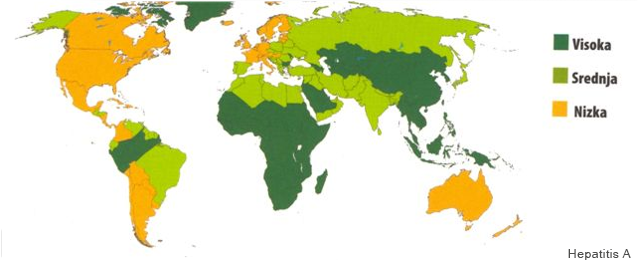
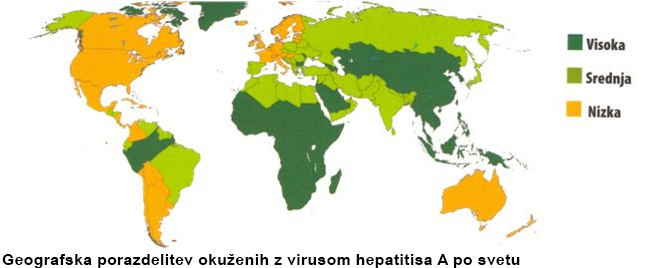
Final text and map fixes. Added legal info.

diff --git a/HEPY_django/HEPY_new/static/HEPY_new/style/style.css b/HEPY_django/HEPY_new/static/HEPY_new/style/style.css
@@ -71,10 +71,10 @@ a:focus {
 #wrap {
 	min-height: 100%;
 	padding-top: 64px;
-	margin-bottom: -100px;
+	margin-bottom: -115px;
 	height: auto;
 	overflow-y: hidden;
-	padding-bottom: 100px;
+	padding-bottom: 115px;
 }
 
 #main-scroll {
@@ -284,10 +284,22 @@ h5, h4 {
  */
  
 footer {
-	min-height: 100px;
+	min-height: 115px;
 	background: rgba(0, 0, 0, 0.7);
 	width: 100%;
 	display: block;
+	max-height: 120px;
+}
+
+.legal-link
+{
+	text-align: center;
+	color: white;
+	/*text-decoration-line: underline;*/
+	width: 100%;
+	letter-spacing: 0;
+	font-family: "Helvetica Neue", Helvetica, Arial, sans-serif;
+	font-size: small;
 }
 
 .img-container {
@@ -448,6 +460,11 @@ footer img {
 
 #page-survey .question-page {
 	min-height: 435px;
+}
+
+.question-page > img {
+	margin-bottom: 10px;
+	margin-top: 10px;
 }
 
 .button-next a {
@@ -668,7 +685,7 @@ a.list-group-item {
 	
 	.hospitalDescription {
 		color: #7F7F7F; 
-		line-height: 110%; 
+		line-height: 110%;
 		text-align: justify; 
 		font-size: 18px;
 		margin-bottom: 0px;
@@ -793,7 +810,13 @@ a.list-group-item {
 
 .checkbox-fix
 {
-	padding-left: 5px;
+	display: inline;
+	padding-right: 8px;
+}
+
+input[type="checkbox"].checkbox-input-fix
+{
+	vertical-align: 0; !important;
 }
 /*
 .just-padding {

diff --git a/HEPY_django/HEPY_new/static/HEPY_new/app/pages/medical-examination.html b/HEPY_django/HEPY_new/static/HEPY_new/app/pages/medical-examination.html
@@ -69,11 +69,9 @@
 				</accordion-group>
 			</accordion>
 			-->
-			<div class="col-md-offset-2 col-md-8"><img src="img/kam-po-pomoc.jpg"></div>
-			<div class="col-md-offset-0 col-md-12">
-				<h5>TESTIRANJE KRVI NA HIV, VIRUSA HEPATITISA B IN C</h5>
+			<div>
+				<h4>Kam na testiranje na okužbo z virusnima hepatitisoma B in C?</h4>
 				<p>Za testiranje lahko zaprosite tudi svojega izbranega zdravnika.</p>
-
 				<accordion>
 					<accordion-group
 						heading="Ljubljana">
@@ -157,6 +155,11 @@
 							</ul>
 					</accordion-group>
 				</accordion>
+			</div>
+			<div>
+				<h4>Kam na pregled k specialistu?</h4>
+				<p>Osrednja bolnišnica za obravnavo bolnikov z virusnim hepatitisom v Sloveniji je Klinika za infekcijske bolezni in vročinska stanja UKC Ljubljana.</p>
+				<div class="col-md-offset-2 col-md-8"><img src="img/kam-po-pomoc.jpg"></div>
 			</div>
 		</div>
 	</div>

diff --git a/HEPY_django/HEPY_new/static/HEPY_new/app/pages/survey.html b/HEPY_django/HEPY_new/static/HEPY_new/app/pages/survey.html
@@ -15,7 +15,7 @@
 
 						<ul id="ulSurvey" ng-switch on="q.type">
 							<li ng-repeat="ans in q.answers" ng-switch-when="checkbox">
-								<label><input name="ans{{q.pk}}_{{ans.pk}}" type="checkbox" class="checkbox-fix" ng-change="changeCheckbox()" ng-model="ans.selected"> {{ ans.text }}</label>
+								<label><input name="ans{{q.pk}}_{{ans.pk}}" type="checkbox" class="checkbox-input-fix" ng-change="changeCheckbox()" ng-model="ans.selected"><div class="checkbox-fix" > {{ ans.text }}</div></label>
 								<!--label ng-show="ans.selected == true" ng-repeat="w in ans.weights"><p ng-if="w.type == 'long_comment'">{{ w.text }}</p></label-->
 							</li>
 							<li ng-repeat="ans in q.answers" ng-switch-when="radio">

diff --git a/HEPY_django/HEPY_new/static/HEPY_new/app/pages/footer.html b/HEPY_django/HEPY_new/static/HEPY_new/app/pages/footer.html
@@ -27,4 +27,5 @@
 			
 		</div>
 	</div>
+	<a href="http://www.loally.com/tos/1ugkj5m" class="col-sm-12 legal-link">POGOJI UPORABE</a>
 </div>

diff --git a/HEPY_django/HEPY_new/static/HEPY_new/app/pages/prevention/general_prevention.md b/HEPY_django/HEPY_new/static/HEPY_new/app/pages/prevention/general_prevention.md
@@ -1,14 +1,13 @@
-### Splošni ukrepi
+### SPLOŠNI UKREPI
 
 ### Varno prehranjevanje <div id="food-safety"></div>
 
 Na potovanju v endemične kraje (glej zemljevid) popotnik <lightbox-img img="'img/hepA.png'" text="'Geografska porazdelitev okuženih z virusom hepatitisa A po svetu'">virus hepatitisa A (HAV)</lightbox-img> in <lightbox-img img="'img/hepE.png'" text="'Geografska porazdelitev okuženih z virusom hepatitisa E po svetu'">virus hepatitisa E (HEV)</lightbox-img> zaužije s hrano, vodo ali preko umazanih rok. Povzročitelj se določen čas izloča z blatom okuženega. Z bolnika ali tihega nosilca virusa se povzročitelj vrača v okolje, v higiensko neurejenih razmerah pa se okužba lahko širi na zdrave osebe.
 
-##### Kako se zavarujemo pred okužbo?
+#### Kako se zavarujemo pred okužbo?
 Pred okužbo se lahko zavarujemo z doslednim upoštevanjem higienskih ukrepov, predvsem smo pozorni v državah, kjer ni razvite kanalizacije oziroma sanitacije okolja. Najpomembnejše je pitje higiensko neoporečne vode, priporočamo uporabo ustekleničene vode, ne le prekuhavanje vode. Roke si pred pripravo jedi in pred jedjo ter po uporabi stranišča vedno temeljito umijemo z milom in čisto vodo. Kjer ni na voljo čiste vode, svetujemo uporabo mokrih higienskih ali alkoholnih robčkov.  Pri umivanju zob uporabljamo samo pitno vodo.  Svetujemo uživanje dobro pečene ali dobro kuhane in pravkar pripravljene hrane. Zelenjavo in sadje je potrebno dobro oprati v pitni vodi. 
 
 **Cepljenje** je najbolj učinkovit način preprečitve okužbe s HAV. Vključuje dva odmerka cepiva in je doživljenjsko učinkovito. Možno je tudi cepljenje s kombiniranim cepivom proti hepatitisoma  A in B s tremi odmerki. Proti hepatitisu E cepiva ni na voljo.
-
 
 ### Izogibanje tveganemu vedenju <div id="risky-behaviour"></div>
 
@@ -22,12 +21,10 @@ Zato je večji poudarek na preprečevanju okužbe z dobrim nadzorom nad darovano
 Pred okužbo se lahko zavarujemo z manj tveganim vedenjem:
 * Intravenski uporabniki drog z uporabo lastnega pribora za injiciranje,
 * njuhalci drog z uporabo lastnega pribora,
-* z izogibanjem neprofesionalno opravljenemu tetoviranju, prebadanju kože in sluznic ("piercing") in akupunkturi,
+* z izogibanjem neprofesionalno opravljenemu tetoviranju, prebadanju kože in sluznic (»piercing«) in akupunkturi,
 * osebe, ki menjavajo spolne partnerje, s pravilno uporabo kondoma iz lateksa dosledno pri vsakem spolnem odnosu,
 * novorojenci mater, okuženih s HCV, s testiranjem na prisotnost okužbe s HCV takoj po porodu in nadaljnjim zdravniškim nadzorom,
 * z izogibanjem souporabi osebnega pribora (zobna ščetka, brivnik, manikirni pribor) in vzdrževanjem osnovnih higienskih navad.
-
-
 
 ### Varni spolni odnosi <div id="safe-sex"></div>
 
@@ -81,37 +78,29 @@ NE OKLEVAJTE! ČE STE IMELI TVEGANO SPOLNO VEDENJE IN/ALI IMATE BOLEZENSKE SIMPT
 
 Več informacij o spolno prenosljivih okužbah najdete na spletni strani: https://aspo.mf.uni-lj.si/
 
+### Varna tetovaža /piercing <div id="tattoo"></div>
 
+##### Zakaj se lahko okužimo pri tetoviranju ali piercingu?
 
-### Varna tetovaža / "piercing" <div id="tattoo"></div>
+Virusa hepatitisa B in C se lahko prenašata, če se pri kakršnihkoli posegih na ali v telo ne upošteva ustreznih higienskih metod in metod preprečevanja širjenja okužbe. Pri izvajanju tetovaže ali piercingu pride do stika kože z iglo oziroma črnilom. Zelo pomembno je, da se uporabi igla za enkratno uporabo, da izvajalec tetovaže ali piercinga med posegom uporablja rokavice in da so ostali pripomočki za izvedbo ustrezno sterilizirani. 
 
-##### Zakaj se lahko okužimo pri tetoviranju ali "piercingu"?
+##### Kakšno je tveganje, da se okužimo z virusom hepatitisa B/C pri tetovaži/piercingu?
 
-Virusa hepatitisa B in C se lahko prenašata, če se pri kakršnihkoli posegih na ali v telo ne upošteva ustreznih higienskih metod in metod preprečevanja širjenja okužbe. Pri izvajanju tetovaže ali "piercingu" pride do stika kože z iglo oziroma črnilom. Zelo pomembno je, da se uporabi igla za enkratno uporabo, da izvajalec tetovaže ali "piercinga" med posegom uporablja rokavice in da so ostali pripomočki za izvedbo ustrezno sterilizirani.
+Raziskave so pokazale, da imajo okuženi z virusom hepatitisa C štirikrat pogosteje prisotno tetovažo v primerjavi z neokuženimi osebami. Tveganje za okužbo se je izrazito povečalo, če je bila tetovaža opravljena neprofesionalno, kar pomeni, da ni bila opravljena v posebnih lokalih za izvajanje tetovaž in piercingov, kjer upoštevajo vse previdnostne ukrepe za preprečevanje širjenja okužb s krvjo (uporaba materiala za enkratno rabo, higienske zahteve in zahteve sterilizacije). 
 
-##### Kakšno je tveganje, da se okužimo z virusom hepatitisa B/C pri tetovaži / "piercingu"?
+##### Kako se lahko zaščitimo pred okužbo z virusom hepatitisa B/C pri tetovaži/piercingu?
 
-Raziskave so pokazale, da imajo okuženi z virusom hepatitisa C štirikrat pogosteje prisotno tetovažo v primerjavi z neokuženimi osebami. Tveganje za okužbo se je izrazito povečalo, če je bila tetovaža opravljena neprofesionalno, kar pomeni, da ni bila opravljena v posebnih lokalih za izvajanje tetovaž in "piercingov", kjer upoštevajo vse previdnostne ukrepe za preprečevanje širjenja okužb s krvjo (uporaba materiala za enkratno rabo, higienske zahteve in zahteve sterilizacije).
-
-##### Kako se lahko zaščitimo pred okužbo z virusom hepatitisa B/C pri tetovaži / "piercingu"?
-
-1. Preverite, če ima lokal, kjer boste opravili tetovažo ali "piercing", ustrezno dovoljenje za izvedbo teh postopkov (uporaba materialov za enkratno rabo, ustrezen higienski nadzor in ukrepe za preprečevanje širjenja okužb preko krvi).
-2. Vprašajte izvajalce tetovaže/"piercinga, na kakšen način sterilizirajo pripomočke in kako pogosto to delajo. Za sterilizacijo pripomočkov se uporablja posebna aparatura (avtoklav). Ti postopki se morajo izvajati rutinsko.
-3. Izvajalec tetovaže/"piercinga" mora med posegom uporabljati rokavice iz lateksa za enkratno uporabo. Preden si natakne rokavice iz lateksa, si mora oprati roke, enako tudi potem, ko rokavice sname.
-4. Vsi pripomočki, ki med tetovažo/"piercingom" pridejo v stik s krvjo in jih ni mogoče sterilizirati (rokavcie, črnilnik, vatiranci, papirnati robčki, stekleničke z milom, in podobno) je potrebno takoj po opravljenem delu odvreči v posebno posodo z oznako, da gre za material s tveganjem za okužbo.
+1. Preverite, če ima lokal, kjer boste opravili tetovažo ali piercing, ustrezno dovoljenje za izvedbo teh postopkov (uporaba materialov za enkratno rabo, ustrezen higienski nadzor in ukrepe za preprečevanje širjenja okužb preko krvi). 
+2. Vprašajte izvajalce tetovaže/piercinga, na kakšen način sterilizirajo pripomočke in kako pogosto to delajo. Za sterilizacijo pripomočkov se uporablja posebna aparatura (avtoklav). Ti postopki se morajo izvajati rutinsko. 
+3. Izvajalec tetovaže/piercinga mora med posegom uporabljati rokavice iz lateksa za enkratno uporabo. Preden si natakne rokavice iz lateksa, si mora oprati roke, enako tudi potem, ko rokavice sname.
+4. Vsi pripomočki, ki med tetovažo/piercingom pridejo v stik s krvjo in jih ni mogoče sterilizirati (rokavice, črnilnik, vatiranci, papirnati robčki, stekleničke z milom in podobno) je potrebno takoj po opravljenem delu odvreči v posebno posodo z oznako, da gre za material s tveganjem za okužbo.
 5. Črnilo ali tekočine na vodni osnovi je potrebno takoj po opravljenem delu zavreči in ne dati nazaj v stekleničko, iz katere izvirajo.
-6. Delovne površine, ki jih uporablja izvajalec tetovaže/"piercinga" in na katere odlaga pripomočke, je potrebno redno čistiti z ustreznim dezinfekcijskim sredstvom.
+6. Delovne površine, ki jih uporablja izvajalec tetovaže/piercinga in na katere odlaga pripomočke, je potrebno redno čistiti z ustreznim dezinfekcijskim sredstvom.
 
-
-
-##### Če že imam tetovažo ali "piercing", kakšno je tveganje, da sem okužen/a z virusom hepatitisa B/C?
-
+##### Če že imam tetovažo ali piercing, kakšno je tveganje, da sem okužen/a z virusom hepatitisa B/C?
 
 Če ste opravili tetovažo v lokalu z ustreznimi dovoljenji in nadzorom, ki upoštevajo zgoraj naštete previdnostne ukrepe, ni nobenih dokazov, da bi imeli kakršnokoli tveganje za okužbo z virusoma hepatitisa B ali C. 
-Če pa ste tetovažo ali "piercing" opravil/a drugje, kjer ni takega nadzora in upoštevanja previdnostnih ukrepov, obstaja tveganje za okužbo. ZATO TAKOJ OPRAVITE TESTIRANJE NA OKUŽBO Z VIRUSOM HEPATITISA C. Če niste cepljeni proti hepatitisu B, pa OPRAVITE TUDI TESTIRANJE NA OKUŽBO Z VIRUSOM HEPATITISA B.
-
-
-
+Če pa ste tetovažo ali piercing opravil/a drugje, kjer ni takega nadzora in upoštevanja previdnostnih ukrepov, obstaja tveganje za okužbo. ZATO TAKOJ OPRAVITE TESTIRANJE NA OKUŽBO Z VIRUSOM HEPATITISA C. Če niste cepljeni proti hepatitisu B, pa OPRAVITE TUDI TESTIRANJE NA OKUŽBO Z VIRUSOM HEPATITISA B.
 
 ### Ukrepanje ob incidentu <div id="incident"></div>
 

diff --git a/HEPY_django/HEPY_new/static/HEPY_new/app/pages/hep-info/testing.md b/HEPY_django/HEPY_new/static/HEPY_new/app/pages/hep-info/testing.md
@@ -1,16 +1,15 @@
-### Kdaj naj se odločim za pregled?
-#### Če imaš bolezenske simptome in znake ki bi nakazovali na akutni virusni hepatitis:
+### Kdaj se odločiti za pregled?
+#### Če imate bolezenske simptome in znake ki bi nakazovali na akutni virusni hepatitis:
 
-TAKOJ obišči svojega izbranega zdravnika, ki bo ocenil stanje in te napotil k specialistu infektologu. Za obisk specialista infektologa v tem primeru potrebuješ napotnico izbranega osebnega zdravnika pod »nujno«. Ker gre za akutno stanje, ki zahteva takojšnji pregled pri specialistu, vnaprejšnje naročanje ni potrebno.  
+TAKOJ obiščite svojega izbranega zdravnika, ki bo ocenil stanje in vas napotil k specialistu infektologu. Za obisk specialista infektologa v tem primeru potrebujete napotnico izbranega osebnega zdravnika pod »nujno«. Ker gre za akutno stanje, ki zahteva takojšnji pregled pri specialistu, vnaprejšnje naročanje ni potrebno.  
 
-#### Če obstaja sum, da si kronično okužen z virusoma hepatitisa B ali C:
+#### Če obstaja sum, da ste okuženi z virusoma hepatitisa B ali C:
 
-Če nimaš zdravstvenih težav in si imel/imaš kakršenkoli dejavnik tveganja za okužbo z virusoma hepatitisa B ali C in/ali imaš kakršnekoli bolezenske simptome in znake, ki bi nakazovali na kronični virusni hepatitis, obišči svojega izbranega zdravnika. Ta bo opravil ustrezne preiskave krvi in te v primeru pozitivnega izvida napotil k specialistu infektologu. Za obisk specialista infektologa potrebuješ napotnico izbranega osebnega zdravnika. Ko pridobiš napotnico, se lahko naročiš po pošti, e-pošti, telefonu ali pa osebno. Sistemi naročanja se med zdravstvenimi ustanovami nekoliko razlikujejo, zato je pred obiskom izbrane zdravstvene ustanove dobro preveriti, kakšen je postopek obravnave pri njih.
-
+Če nimate zdravstvenih težav in ste imeli oziroma imate kakršenkoli dejavnik tveganja za okužbo z virusoma hepatitisa B ali C in/ali imate kakršnekoli bolezenske simptome in znake, ki bi nakazovali na kronični virusni hepatitis, obiščite svojega izbranega zdravnika. Ta bo opravil ustrezne preiskave krvi in vas v primeru pozitivnega izvida napotil k specialistu infektologu. Za obisk specialista infektologa potrebujete napotnico izbranega osebnega zdravnika. Ko pridobite napotnico, se lahko naročite po pošti, e-pošti, telefonu ali pa osebno. Sistemi naročanja se med zdravstvenimi ustanovami nekoliko razlikujejo, zato je pred obiskom izbrane zdravstvene ustanove dobro preveriti, kakšen je postopek obravnave pri njih.
 
 Obstajajo tudi zdravstvene ustanove, ki nudijo samo testiranje na okužbo z virusoma hepatitisa B in C. Ponudba zdravstvenih storitev se med ustanovami nekoliko razlikuje, prav tako dostopnost do storitev (anonimno brezplačno, samoplačniško).
 
-#### Kaj prinesem s seboj na pregled?
+#### Kaj prinesti s seboj na pregled?
 
 Na pregled je potrebno prinesti kartico zdravstvenega zavarovanja, napotnico in morebitne izvide predhodnih preiskav v povezavi s trenutnim bolezenskim stanjem.
 
@@ -20,20 +19,13 @@ Obravnava bolnikov se začne s pogovorom z zdravnikom specialistom, tako glede z
 
 #### Pomembno je vedeti
 
-Če imaš **akutni virusni hepatitis** in so rezultati preiskav pokazali zelo oslabljeno delovanje jeter, je potreben sprejem v bolnišnico. Če delovanje jeter ni zelo oslabljeno, se specialist infektolog običajno odloči, da bolnišnično zdravljenje ni potrebno, vendar so potrebni redni in lahko tudi zelo pogosti ambulantni pregledi, dokler se delovanje jeter na stabilizira oziroma normalizira. 
+Če imate **akutni virusni hepatitis** in so rezultati preiskav pokazali zelo oslabljeno delovanje jeter, je potreben sprejem v bolnišnico. Če delovanje jeter ni zelo oslabljeno, se specialist infektolog običajno odloči, da bolnišnično zdravljenje ni potrebno, vendar so potrebni redni in lahko tudi zelo pogosti ambulantni pregledi, dokler se delovanje jeter na stabilizira oziroma normalizira. 
 
-Če imaš **kronični hepatitis B ali C**, bolnišnično zdravljenje običajno ni potrebno. Na temelju opravljenih preiskav se specialist za virusne hepatitise lahko odloči za zdravljenje. Zdravljenje hepatitisa B je običajno dolgotrajno, lahko celo doživljenjsko, in zahteva redne preglede pri specialistu. Zdravljenje hepatitisa C traja nekaj tednov in v večini primerov pripelje do dokončne ozdravite. Vendar je možna ponovna okužba, če se spet izpostavljamo tveganju. 
+Če imate **kronični hepatitis B ali C**, bolnišnično zdravljenje običajno ni potrebno. Na temelju opravljenih preiskav se specialist za virusne hepatitise lahko odloči za zdravljenje. Zdravljenje hepatitisa B je običajno dolgotrajno, lahko celo doživljenjsko, in zahteva redne preglede pri specialistu. Zdravljenje hepatitisa C traja nekaj tednov in v večini primerov pripelje do dokončne ozdravite. Vendar je možna ponovna okužba, če se spet izpostavljamo tveganju. 
 
-Če si **le kronično okužen z virusom hepatitisa B** in nimaš znakov bolezni jeter (t.i. nosilec HBsAg), so potrebni le obdobni pregledi pri specialistu, brez zdravljenja. Moraš pa se zavedati, da s tveganim vedenjem lahko prenašaš okužbo na še neokužene, zato so potrebni vsi ukrepi za preprečevanje širjenja okužbe (cepljenje spolnih partnerjev/partnerk, ožjih družinskih članov in članov skupnega gospodinjstva, uporaba kondoma, itd.). Če zaradi kakršnihkoli drugih bolezni potrebuješ zdravila, ki oslabijo tvoj imunski sistem (npr. kemoterapijo, biološka zdravila, kortikosteroide, ipd.), moraš prejeti zdravila za zdravljenje hepatitisa B (t. i. kemoprofilakso), ki preprečijo, da bi se virus hepatitisa B aktiviral in lahko sprožil zelo hudo obolenje jeter. 
+Če ste **le kronično okuženi z virusom hepatitisa B** in nimate znakov bolezni jeter (t.i. nosilec HBsAg), so potrebni le obdobni pregledi pri specialistu, brez zdravljenja. Morate pa se zavedati, da s tveganim vedenjem lahko prenašate okužbo na še neokužene, zato so potrebni vsi ukrepi za preprečevanje širjenja okužbe (cepljenje spolnih partnerjev/partnerk, ožjih družinskih članov in članov skupnega gospodinjstva, uporaba kondoma, itd.). Če zaradi kakršnihkoli drugih bolezni potrebujete zdravila, ki oslabijo vaš imunski sistem (npr. kemoterapijo, biološka zdravila, kortikosteroide, ipd.), morate prejeti zdravila za zdravljenje hepatitisa B (t. i. kemoprofilakso), ki preprečijo, da bi se virus hepatitisa B aktiviral in lahko sprožil zelo hudo obolenje jeter. 
 
-NE OKLEVAJ! ČE SI IMEL KAKRŠENKOLI DEJAVNIK TVEGANJA ZA OKUŽBO Z VIRUSOMA HEPATITISA B ALI C IN/ALI IMAŠ BOLEZENSKE SIMPTOME IN ZNAKE KRONIČNEGA HEPATITISA, POJDI TAKOJ K ZDRAVNIKU!
-
-#### Kam na pregled k specialistu?
-
-Osrednja bolnišnica za obravnavo bolnikov z virusnim hepatitisom v Sloveniji je Klinika za infekcijske bolezni in vročinska stanja UKC Ljubljana
-
-
-         
+NE OKLEVAJTE! ČE STE IMELI KAKRŠENKOLI DEJAVNIK TVEGANJA ZA OKUŽBO Z VIRUSOMA HEPATITISA B ALI C IN/ALI IMATE BOLEZENSKE SIMPTOME IN ZNAKE KRONIČNEGA HEPATITISA, POJDITE TAKOJ K ZDRAVNIKU!
 
 
 

diff --git a/HEPY_django/HEPY_new/static/HEPY_new/app/pages/hep-info/description-ha.md b/HEPY_django/HEPY_new/static/HEPY_new/app/pages/hep-info/description-ha.md
@@ -19,5 +19,5 @@ Hepatitis A je samoozdravljiva bolezen in ne vodi v kronično obliko. Zdravljenj
 Pomembno je, da okužbo s HAV pravočasno prepoznamo in ustrezno nadzorujemo, saj se tako izognemo širjenju bolezni, hkrati pa preprečimo zaplete, ki lahko vodijo v odpoved delovanja jeter in transplantacijo organa.
 
 #### Preprečevanje okužbe
-Poleg ustrezne higiene potnikom v endemična področja svetujemo pozornost pri uživanju hrane in vode. Okužbo lahko preprečimo tudi s cepljenjem, ki nudi zaščito pred hepatitisom A v več kot 90%, če ga opravimo vsaj en mesec pred izpostavitvijo. Zaščita se razvije že nekaj tednov po prvem odmerku cepiva. Za dolgotrajnejšo, najverejtneje doživljenjsko zaščito je potreben nov odmerek cepiva čez 6 do 12 mesecev. Cepljenje proti hepatitisu A svetujemo predvsem potnikom, ki potujejo v kraje z visoko pojavnostjo okužbe s HAV. Obstaja tudi pasivna profilaksa v obliki injekcije protiteles, ki ščiti pred okužbo. Uporabljamo jo poekspozicijsko, to je neposredno oziroma največ 14 dni po izpostavitvi. Na voljo pa je tudi tako imenovana pasivna profilaksa – zaščita pred hepatitisom A potem, ko smo bili že izpostavljeni okužbi. Gre za protitelesa proti HAV, ki jih izpostavljena oseba dobi v obliki injekcije  čim prej , najkasneje pa znotraj 14 dni po izpostavitvi. Preventivno cepljenje in pasivna profilaksa se uporabljata tudi za preprečevanje spolno prenosljivega hepatitisa A.
+Poleg ustrezne higiene potnikom v endemična področja svetujemo pozornost pri uživanju hrane in vode. Okužbo lahko preprečimo tudi s cepljenjem, ki nudi zaščito pred hepatitisom A v več kot 90%, če ga opravimo vsaj en mesec pred izpostavitvijo. Zaščita se razvije že nekaj tednov po prvem odmerku cepiva. Za dolgotrajnejšo, najverejtneje doživljenjsko zaščito je potreben nov odmerek cepiva čez 6 do 12 mesecev. Cepljenje proti hepatitisu A svetujemo predvsem potnikom, ki potujejo v kraje z visoko pojavnostjo okužbe s HAV. Obstaja tudi pasivna profilaksa v obliki injekcije protiteles, ki ščiti pred okužbo. Uporabljamo jo poekspozicijsko, to je neposredno oziroma največ 14 dni po izpostavitvi. Na voljo pa je tudi tako imenovana pasivna profilaksa – zaščita pred hepatitisom A potem, ko smo bili že izpostavljeni okužbi. Gre za protitelesa proti HAV, ki jih izpostavljena oseba dobi v obliki injekcije  čim prej, najkasneje pa znotraj 14 dni po izpostavitvi. Preventivno cepljenje in pasivna profilaksa se uporabljata tudi za preprečevanje spolno prenosljivega hepatitisa A.
 

diff --git a/HEPY_django/HEPY_new/static/HEPY_new/app/pages/hep-info/description-acute.md b/HEPY_django/HEPY_new/static/HEPY_new/app/pages/hep-info/description-acute.md
@@ -11,7 +11,7 @@ Akutna bolezen poteka v štirih obdobjih. Okužbi sledi obdobje inkubacije, ko
 V poteku akutnega hepatitis so lahko poleg jeter prizadete tudi žile (vaskulitis), predvsem pri hepatitisu B, in ledvice (pri hepatitisih B in C).
 Potek akutnega hepatitisa pri manj kot 1% bolnikov poteka burno (fulminantno), kar privede do odpovedi delovanja jeter. Kaže se z zelo izraženo rumenico kože, izrazitim otekanjem v trebuh in noge, krvavitvami po koži in v prebavilih, zaspanostjo, zmedenostjo, vznemirjenostjo in celo komo, končno pa z motnjami dihanja ter motnjami v delovanju srčno-žilnega sistema in ledvic.
 
-#### Kaj narediti ob sumu na okužbo
+#### Kaj narediti ob sumu na okužbo?
 Ob pojavu simptomov in znakov okužbe čimprej obiščite izbranega osebnega zdravnika, ki bo opravil ustrezen pregled krvi in vas v primeru utemeljenega suma na virusni hepatitis takoj napotil k specialistu infektologu. Ta bo opravil dodatne preiskave krvi in ocenil, kakšna je okvara vaših jeter in s posebnimi virološkimi preiskavami potrdil okužbo z virusnim hepatitisom.
  
 #### Zdravljenje

diff --git a/HEPY_django/HEPY_new/static/HEPY_new/app/pages/hep-info/about.md b/HEPY_django/HEPY_new/static/HEPY_new/app/pages/hep-info/about.md
@@ -3,3 +3,5 @@ Spletno orodje za informiranje in prepoznavanje okužbe z virusnimi hepatitisi H
 Kot cilj projekta HEP-Y smo si zastavili razvoj prvega interaktivnega spletnega orodja v slovenskem jeziku na temo informiranja in prepoznavanja okužbe z virusnimi hepatitisi.
 
 Pri razvoju aplikacije smo sodelovale študentke Medicinske fakultete UL Ana Peterlin, Karolina Počivavšek, Ana Prodan in Saša Rink, študenti Fakultete za računalništvo in informatiko UL Alen Ajanović, Matic Podpadec in Andrej Ulčar ter študentka Visoke šole za storitve Špela Pišek, pod mentorstvom prof. dr. Mojce Matičič, dr. med. s Klinike za infekcijske bolezni in vročinska stanja UKC Ljubljana, dr. Gašperja Fele-Žorža s Fakultete za računalništvo in informatiko UL, prof. dr. Matjaža Gamsa in dr. Antona Gradiška z Inštituta Jožef Stefan ter Jadrana Prodana s podjetja Globalsoft poslovna informatika.
+
+Osebni podatki se ne zbirajo, razen anonimno za potrebe statistike, po predhodni odobritvi uporabnika. Podrobneje preberite <a href="http://www.loally.com/tos/1ugkj5m">tukaj</a>.

diff --git a/HEPY_django/HEPY_new/static/HEPY_new/app/pages/survey-start.md b/HEPY_django/HEPY_new/static/HEPY_new/app/pages/survey-start.md
@@ -3,3 +3,5 @@
 **Vprašalnik ni nadomestilo za pregled pri zdravniku. Ob vsakem tveganem dejavniku se posvetujte s strokovnjakom.**
 
 Vprašalnik vam ne bo vzel veliko časa. Nadaljujte s klikom gumba *Naprej*.
+
+Vprašalnik izpolnjujete anonimno. Aplikacija ne shranjuje vaših osebnih podatkov.
